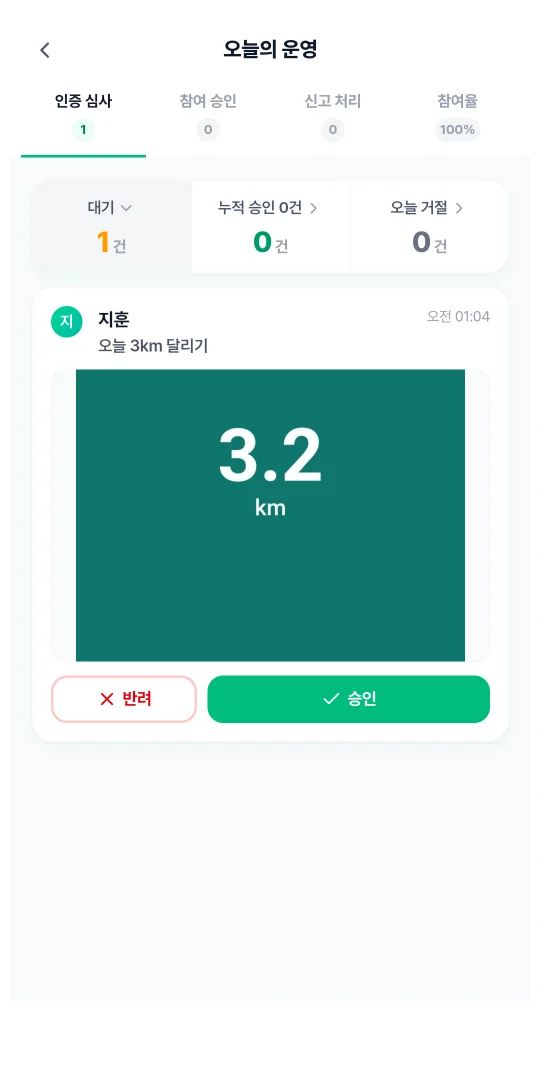
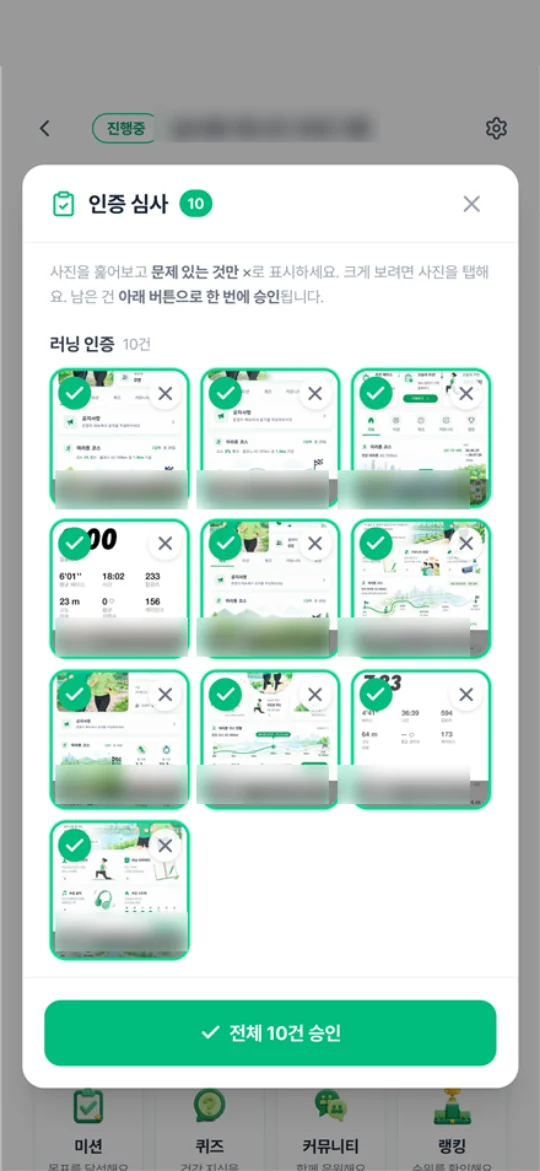
소개 페이지 — 일괄 승인·종료 리포트 실제 화면으로 교체
본인이 준 실사용 캡처 두 장을 넣었다.

- 「올라온 인증을 모아서 확인합니다」 → 인증 심사 10건 일괄 승인 모달.
  문구도 화면에 맞게 고쳤다 — 「문제 있는 것만 빼면 버튼 하나로 한 번에 승인」.
- 「결과를 문서로 남깁니다」 → 종료 리포트(핵심 진단 + 참여 여정 퍼널).
  CSS 로 그리던 예시 카드를 걷어냈다. 문구도 결과 나열이 아니라
  「어디서 멈췄는지, 무엇이 병목이었는지」로 바꿨다.

⚠ 공개 페이지라 개인정보·내부 표시를 가렸다(blur).
   - 심사 화면: 참여자 이름 10명 + 프로그램 제목(「실사용 테스트 프로그램」)
   - 리포트: 프로그램 제목 두 곳(「(TEST 1) 운동 프로그램」)
   가린 뒤 폭 540 WebP 로 줄였다. 원본은 저장소에 넣지 않았다.

diff --git a/src/pages/IntroPage.jsx b/src/pages/IntroPage.jsx
@@ -32,7 +32,7 @@ function Icon({ src, className = 'w-10 h-10' }) {
 }
 
 // 폰 프레임 — 실제 앱 화면 캡처를 담는다.
-function PhoneMock({ src, alt, className = '' }) {
+function PhoneMock({ src, alt, height = 1073, className = '' }) {
   return (
     <div
       className={`relative w-full max-w-[268px] rounded-[2.25rem] bg-white p-2 shadow-elevated ring-1 ring-gray-200/70 ${className}`}
@@ -43,7 +43,7 @@ function PhoneMock({ src, alt, className = '' }) {
         loading="lazy"
         decoding="async"
         width={540}
-        height={1073}
+        height={height}
         className="block w-full h-auto rounded-[1.75rem] bg-surface-app"
       />
     </div>
@@ -171,13 +171,15 @@ export default function IntroPage() {
                 올라온 인증을 모아서 확인합니다
               </h2>
               <p className="mt-3 text-sm text-gray-600 leading-relaxed break-keep">
-                누가 무엇을 올렸는지 한 곳에 모입니다. 승인하면 점수와 연속 기록에 바로 반영되고,
-                참여율과 며칠째 안 보이는 사람도 같은 자리에서 봅니다.
+                하루치 인증이 한 장에 모입니다. 훑어보고 문제 있는 것만 빼면
+                <strong className="font-semibold text-gray-700"> 나머지는 버튼 하나로 한 번에 승인</strong>됩니다.
+                승인하면 점수와 연속 기록에 바로 반영돼요.
               </p>
             </div>
             <div className="mt-7 sm:mt-0 flex justify-center sm:flex-shrink-0">
               <PhoneMock
                 src="/intro/screen-review.webp"
+                height={1171}
                 alt="운영자 화면 — 참여자가 올린 인증을 승인하거나 반려하는 심사 목록"
                 className="max-w-[228px]"
               />
@@ -185,34 +187,26 @@ export default function IntroPage() {
           </div>
         </section>
 
-        {/* ── 핵심 ③: 종료 리포트 ── 화면 대신 리포트 카드 자체를 보여준다 */}
-        <section className="mt-6 rounded-card-lg bg-white border border-gray-100 shadow-soft p-6 sm:p-8">
-          <div className="sm:flex sm:items-center sm:gap-10">
+        {/* ── 핵심 ③: 종료 리포트 ── 결과만이 아니라 «왜 그랬는지»까지 */}
+        <section className="mt-6 rounded-card-lg bg-white border border-gray-100 shadow-soft overflow-hidden">
+          <div className="p-6 sm:p-8 sm:flex sm:items-center sm:gap-10">
             <div className="min-w-0 sm:flex-1">
               <p className="text-[12px] font-bold text-emerald-600">끝나면</p>
               <h2 className="mt-1.5 text-[20px] sm:text-2xl font-bold text-gray-800 break-keep leading-snug">
                 결과를 문서로 남깁니다
               </h2>
               <p className="mt-3 text-sm text-gray-600 leading-relaxed break-keep">
-                완주 인원, 기간별 변화, 참여 여정. 보고해야 하는 자리에 그대로 낼 수 있습니다.
+                몇 명이 어디서 멈췄는지, 무엇이 병목이었는지까지 짚어 줍니다.
+                보고해야 하는 자리에 그대로 내고, 다음 기수는 설정을 그대로 복제해 엽니다.
               </p>
             </div>
-            <div className="mt-6 sm:mt-0 sm:w-[300px] sm:flex-shrink-0">
-              <div className="rounded-2xl bg-surface-app border border-gray-100 p-4">
-                <p className="text-[11px] font-bold text-gray-500">3주 걷기 챌린지 · 종료 리포트</p>
-                <div className="mt-3 grid grid-cols-3 gap-2 text-center">
-                  {[['완주', '18명'], ['인증률', '81%'], ['연속 최고', '21일']].map(([k, v]) => (
-                    <div key={k} className="bg-white rounded-xl py-2.5 border border-gray-100">
-                      <p className="text-[15px] font-bold text-gray-800 leading-none">{v}</p>
-                      <p className="mt-1 text-[10px] text-gray-500">{k}</p>
-                    </div>
-                  ))}
-                </div>
-                <div className="mt-2.5 h-1.5 rounded-full bg-gray-100 overflow-hidden">
-                  <div className="h-full w-[81%] rounded-full bg-gradient-to-r from-emerald-400 to-teal-500" />
-                </div>
-                <p className="mt-2 text-[10px] text-gray-400">예시 화면입니다</p>
-              </div>
+            <div className="mt-7 sm:mt-0 flex justify-center sm:flex-shrink-0">
+              <PhoneMock
+                src="/intro/screen-report.webp"
+                height={1171}
+                alt="종료 리포트 — 핵심 진단과 참여자·인증 건수, 참여 여정 퍼널"
+                className="max-w-[228px]"
+              />
             </div>
           </div>
         </section>
